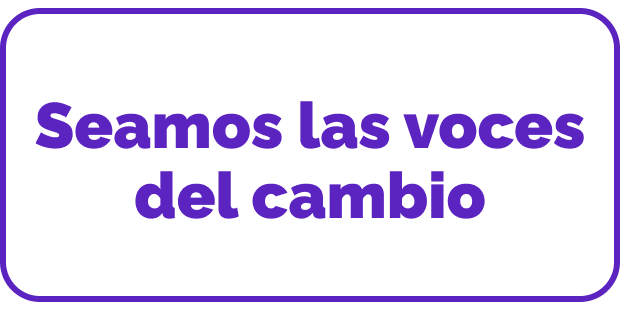
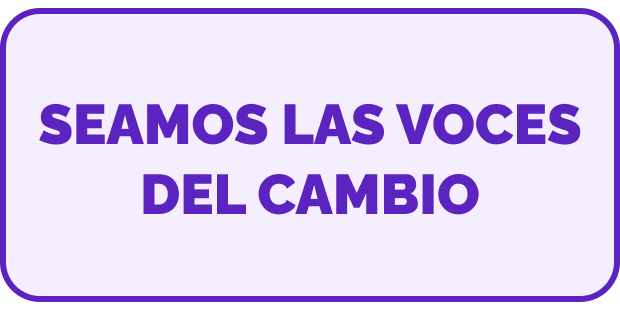
19nov_2

Changed region(s): [[0.0613, 0.3173, 0.95, 0.4904], [0.2145, 0.5481, 0.7968, 0.7212]]

diff --git a/vis-template/app/page.tsx b/vis-template/app/page.tsx
@@ -2,6 +2,7 @@
 
 import dynamic from 'next/dynamic';
 import StickyImage from './sticky';  
+import Header from "./Header";
 import Image from 'next/image';
 import { useEffect } from 'react';
 
@@ -25,25 +26,13 @@ const HomePage = () => {
 
   return (
     <div className="bg-gray-50 bg-white shadow-md">
-      <header className="container mx-auto flex items-center p-4 z-40">
-        <Image 
-          src="/logo_par.svg" 
-          alt="Olympic Women Participation"
-          width={45}
-          height={45}
-          className="ml-[-50px]"
-        />
-        <ul className="flex space-x-8 ml-16">
-          <li><a href="/" className="bg-violet-100 hover:bg-violet-300 text-[#5F1BBF] rounded px-2 py-1">Mujeres</a></li>
-          <li><a href="historia" className="text-[#5F1BBF] hover:text-violet-700">Historia</a></li>
-          <li><a href="medallero" className="text-[#5F1BBF] hover:text-violet-700">Medallero</a></li>
-        </ul>
-      </header>
-      
+    
+       {/* Header Fijo */}
+       <Header />
 
       {/* Hero Section with Parallax */}
       <section className="relative">
-        <div className="parallax scroll-element" data-speed="0.3" style={{ backgroundImage: 'url(/headerJJOO.png)', backgroundSize: 'contain', height: '400px', backgroundAttachment: 'fixed' }}>
+        <div className="parallax scroll-element mt-24" data-speed="0.3" style={{ backgroundImage: 'url(/headerJJOO.png)', backgroundSize: 'contain', height: '400px', backgroundAttachment: 'fixed' }}>
           <div className="absolute inset-0 flex flex-col items-center justify-center text-center">
             <h1 className="text-4xl sm:text-5xl font-black text-[#5F1BBF] mt-[700px]">PARTICI[PAR]</h1>
             <p className="mt-4 text-lg sm:text-xl text-gray-700">Evolución en la participación femenina en los Juegos Olímpicos.</p>
@@ -130,9 +119,11 @@ const HomePage = () => {
         La historia del deporte está cambiando, y las mujeres están en el centro de esa transformación. <br /> La equidad en los Juegos Olímpicos no es solo un triunfo de cifras, sino una victoria simbólica <br /> en la lucha contra siglos de exclusión. Cada atleta femenina que sube al podio lleva consigo <br /> no solo su esfuerzo personal, sino el peso de <b> generaciones que soñaron con ese momento. </b> <br /> Pero este es solo el comienzo. La igualdad de oportunidades en los deportes debe ir más allá <br /> del número de participantes, se trata de garantizar que todas las niñas, en cualquier rincón del <br /> mundo, vean en el deporte un espacio que también les pertenece. <br /> ¿Estamos listos para seguir rompiendo barreras?
         </p>
         <div className="flex justify-center">
+        <a href="https://www.youtube.com/watch?v=NZ1fwWvE9IA"> 
           <button className="bg-[#5F1BBF] hover:bg-violet-300 text-white font-bold py-2 px-4 rounded mt-8">
             Conocé más sobre esta historia
           </button>
+          </a>
         </div>
         <div className='ml-[490px]'> 
         <StickyImage src="/sabiasque_5.png" alt="Gim"/>

diff --git a/vis-template/app/Header.tsx b/vis-template/app/Header.tsx
@@ -1,0 +1,42 @@
+// components/Header.tsx
+import Image from "next/image";
+
+const Header: React.FC = () => {
+  return (
+    <div className="bg-white text-black fixed top-0 w-full z-40 shadow-md">
+      <div className="container mx-auto flex items-center p-4">
+        <Image
+          className="ml-[-50px]"
+          src="/logo_par.svg"
+          alt="Olympic Women Participation"
+          width={45}
+          height={45}
+        />
+        <ul className="flex space-x-8 ml-16">
+          <li>
+            <a href="/" className="bg-violet-100 hover:bg-violet-300 text-[#5F1BBF] rounded px-2 py-1">
+              Mujeres
+            </a>
+          </li>
+          <li>
+            <a href="historia" className="text-[#5F1BBF] hover:text-[#5F1BBF]">
+              Historia
+            </a>
+          </li>
+          <li>
+            <a
+              href="medallero"
+              className="text-[#5F1BBF] hover:text-[#5F1BBF]"
+            >
+              Medallero
+            </a>
+          </li>
+        </ul>
+      </div>
+    </div>
+
+
+  );
+};
+
+export default Header;

diff --git a/vis-template/app/historia/page.tsx b/vis-template/app/historia/page.tsx
@@ -24,10 +24,10 @@ const Home: React.FC = () => {
     />
   </div>
 </section>
-<StickyImage src="/sabiasque_1.png" alt="Gim"/>
+<StickyImage src="/femenino_JJOO.png" alt="Gim"/>
 
-<h1 className="text-center mt-16 mb-8 text-purple-800 text-5xl font-extrabold"> "La promoción del respeto <br /> y la igualdad" </h1>
-    <h4 className="text-center text-sm mb-4"> -Carta Olímpica del Comité Olímpico Internacional</h4>
+<h1 className="text-center mt-8 mb-4 text-purple-800 text-4xl font-black"> "LA PROMOCIÓN DEL RESPETO <br /> Y LA IGUALDAD" </h1>
+    <h4 className="text-center text-sm mb-4"> Carta Olímpica del Comité Olímpico Internacional</h4>
 
       {/* Línea de Tiempo */}
       <HorizontalTime />

diff --git a/vis-template/app/Medallero/TopWomen.tsx b/vis-template/app/Medallero/TopWomen.tsx
@@ -92,7 +92,7 @@ export const TopWomen: React.FC = () => (
         />
       </section>
    
-    <h1 className="font-extrabold text-5xl text-purple-800 text-center mt-16"> TOP MUJERES </h1>
+    <h1 className="font-black text-5xl text-purple-800 text-center mt-16"> TOP MUJERES </h1>
     <h4 className="text-center mb-4"> destacadas en los Juegos Olímpicos 2024</h4>
     <h4 className="text-center text-sm font-bold mb-2"> medallas </h4>
     <Image 

diff --git a/vis-template/app/historia/Sticky.tsx b/vis-template/app/historia/Sticky.tsx
@@ -36,7 +36,7 @@ const StickyImage = ({ src, alt }: StickyImageProps) => {
         zIndex: 10, // Asegura que esté sobre otros elementos
       }}
     >
-      <Image src={src} alt={alt} width={300} height={500} priority />
+      <Image src={src} alt={alt} width={80} height={500} priority />
     </div>
   );
 };

diff --git a/vis-template/app/Medallero/page.tsx b/vis-template/app/Medallero/page.tsx
@@ -4,9 +4,6 @@ import TopWomen from "./TopWomen";
 
 const Home = () => (
   <>
-    <Head>
-      <title>Top Mujeres - Juegos Olímpicos</title>
-    </Head>
     <TopWomen />
   </>
 );
